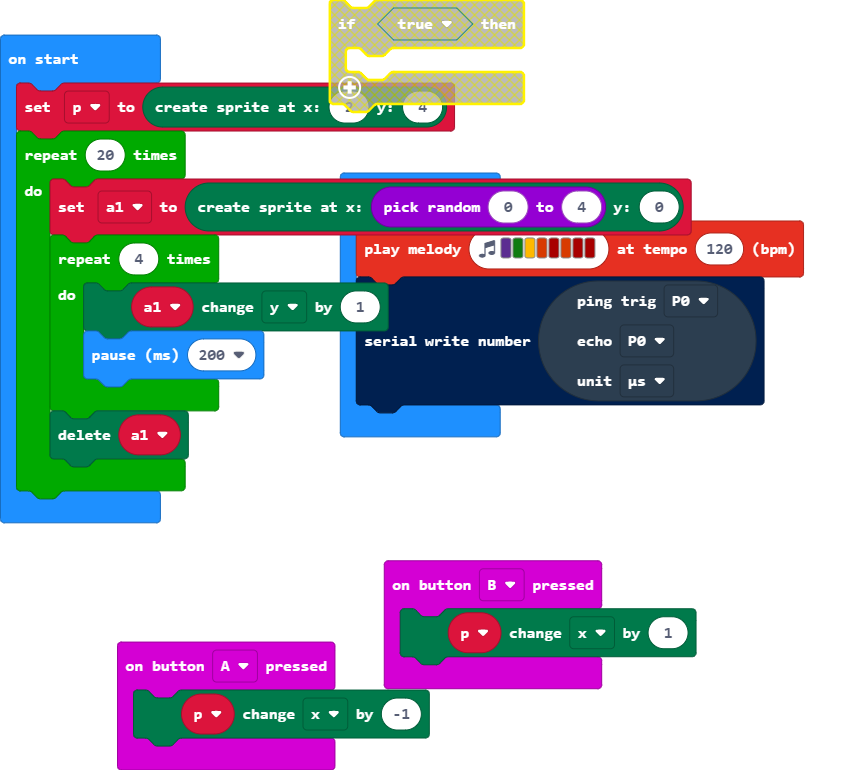
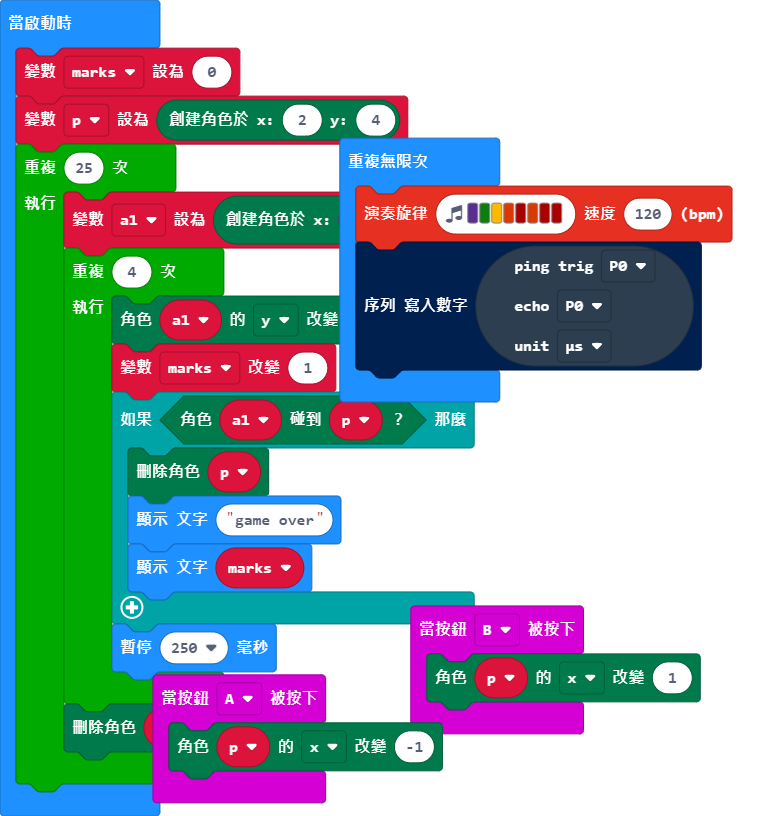
更新 main.blocks, main.ts

diff --git a/main.ts b/main.ts
@@ -6,12 +6,19 @@ input.onButtonPressed(Button.B, function () {
 })
 let a1: game.LedSprite = null
 let p: game.LedSprite = null
+let marks = 0
 p = game.createSprite(2, 4)
-for (let index = 0; index < 20; index++) {
+for (let index = 0; index < 25; index++) {
     a1 = game.createSprite(randint(0, 4), 0)
     for (let index = 0; index < 4; index++) {
         a1.change(LedSpriteProperty.Y, 1)
-        basic.pause(200)
+        marks += 1
+        if (a1.isTouching(p)) {
+            p.delete()
+            basic.showString("game over")
+            basic.showString("" + (marks))
+        }
+        basic.pause(250)
     }
     a1.delete()
 }
